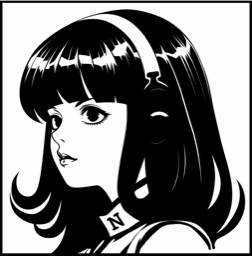
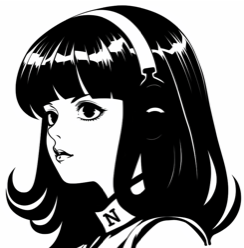
style(landing): crop the black frame baked into the Hermes image

diff --git a/landing-page/tests/hermes.spec.ts b/landing-page/tests/hermes.spec.ts
@@ -3,6 +3,7 @@ import { expect, type Page, test } from "@playwright/test";
 const KIT = "/downloads/FlowFlow-Hermes-kit-2026-10-04.zip";
 const KIT_PROMPT_FILE = "POUR-HERMES.md";
 const MASCOT = "/brand/mascot.webp";
+const LIGHT = 200;
 
 const LINK_PAGES = [
   {
@@ -161,6 +162,17 @@ for (const copy of [...LINK_PAGES, ...SPACE_PAGES]) {
       expect(await agent.evaluate((e) => getComputedStyle(e).boxShadow)).toBe(
         "none",
       );
+      const edge = await agent.evaluate(async (image: HTMLImageElement) => {
+        await image.decode();
+        const canvas = document.createElement("canvas");
+        canvas.width = image.naturalWidth;
+        canvas.height = image.naturalHeight;
+        const context = canvas.getContext("2d");
+        context?.drawImage(image, 0, 0);
+        const middle = Math.floor(canvas.width / 2);
+        return Array.from(context?.getImageData(middle, 1, 1, 1).data ?? []);
+      });
+      expect(edge[0]).toBeGreaterThan(LIGHT);
     });
 
     test("offers the kit download", async ({ page }) => {
